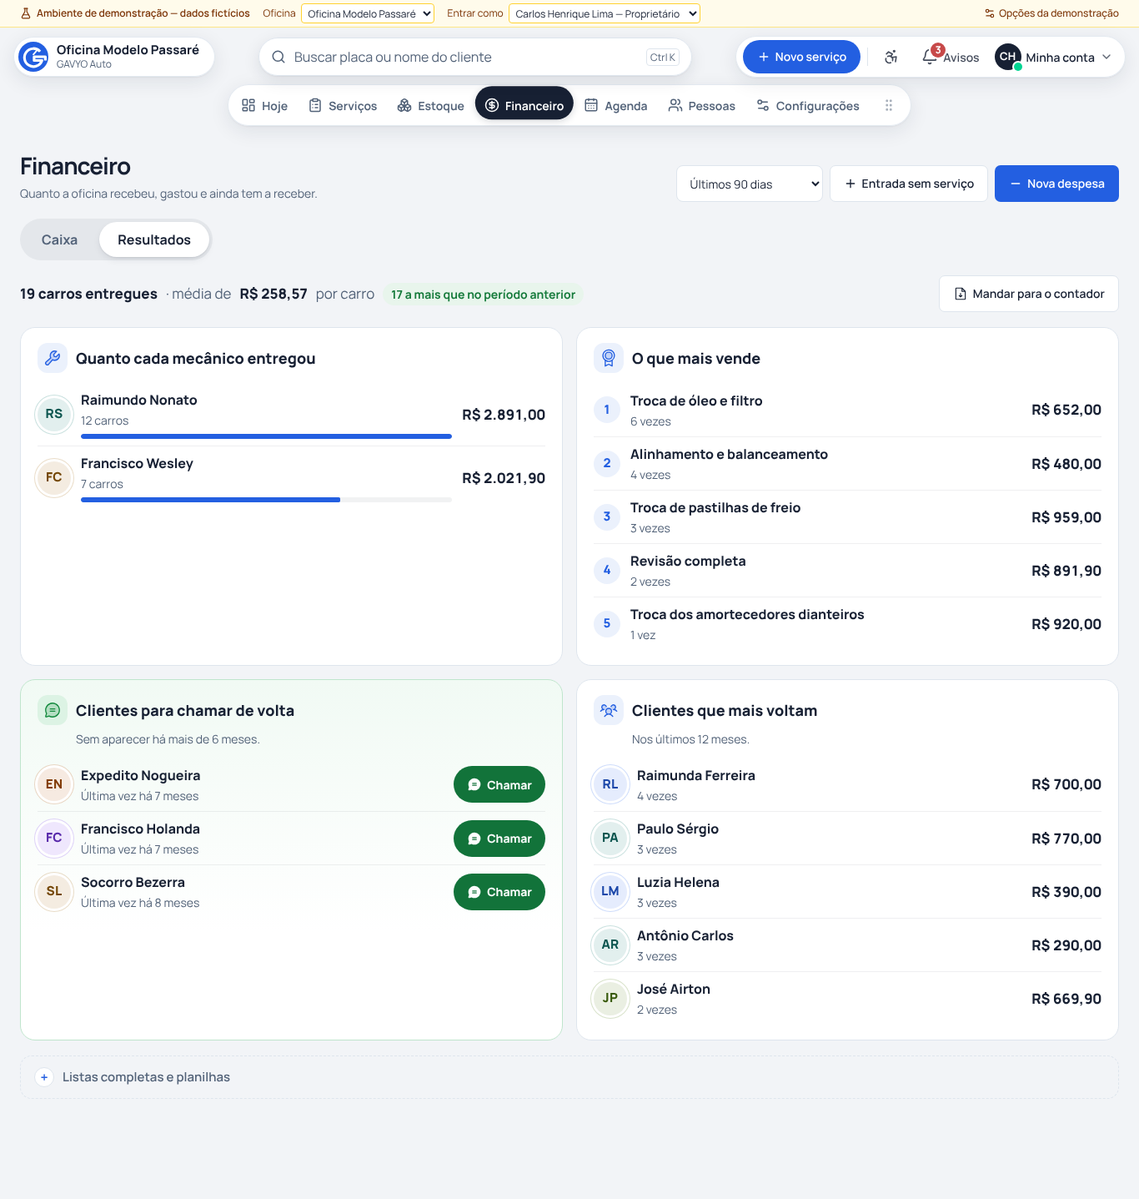
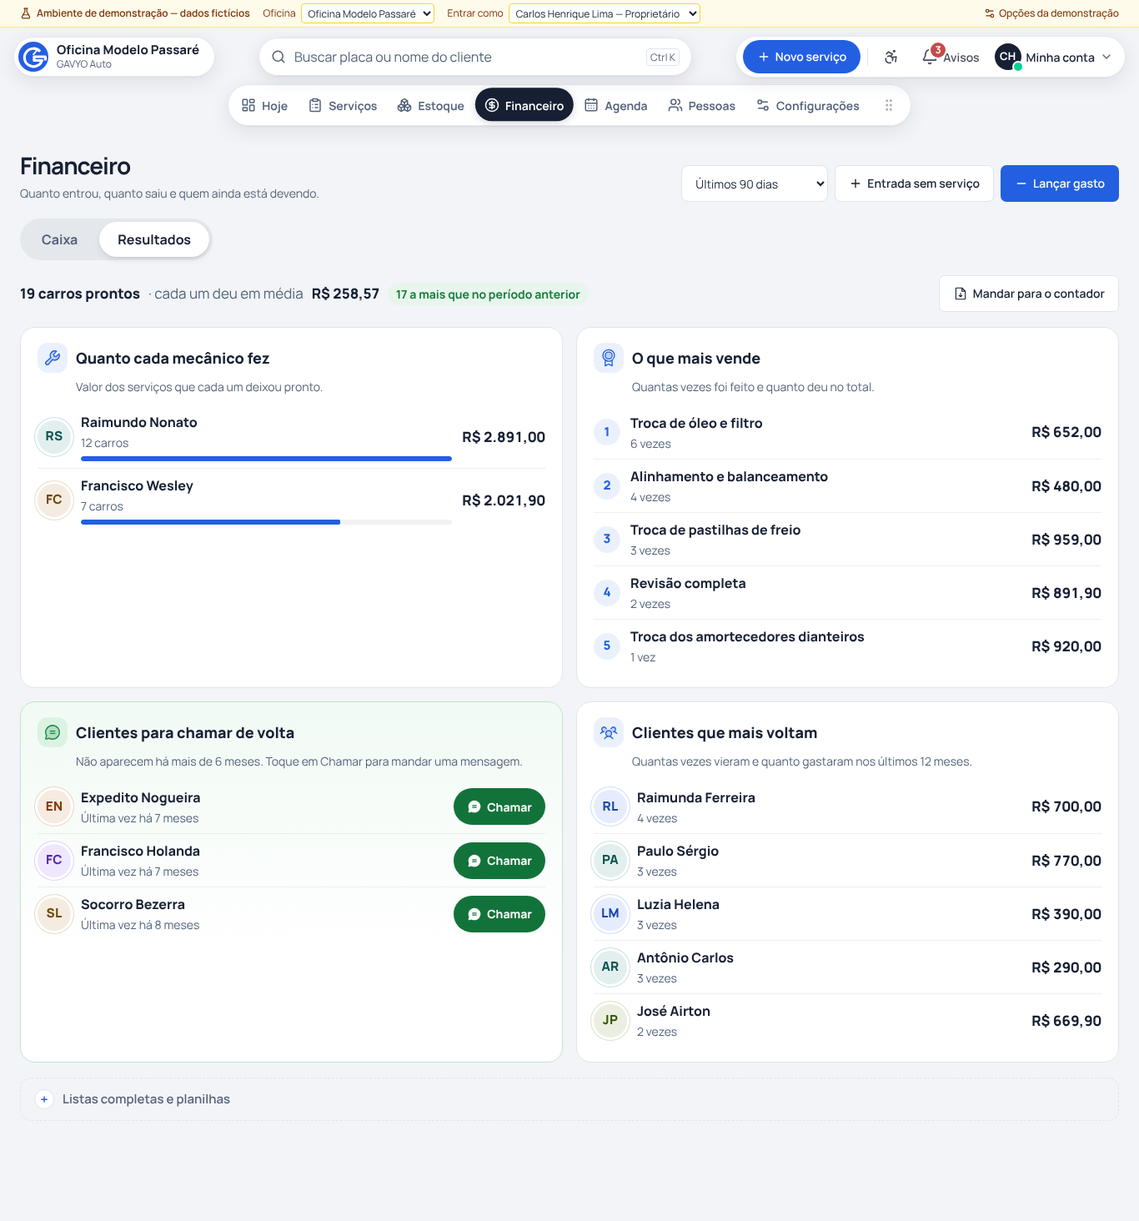
feat: Financeiro mais claro — Entrou, Saiu, Sobrou e Falta receber
Mesmo vocabulário e mesmas cores nos cartões, no gráfico e nas abas; sai
o número que brigava com o Entrou; gasto no lugar de despesa; tabela de
entradas com 5 colunas; Resultados explica cada valor (decisão 80).

Claude-Session: https://claude.ai/code/session_015xcccMtBZyPoUvGxoauYP3

diff --git a/src/features/finance/finance-page.tsx b/src/features/finance/finance-page.tsx
@@ -25,6 +25,11 @@ import { FinanceResults } from "./finance-results";
 /** Par de cores validado para daltonismo; independe da cor da oficina. */
 const SERIES = { received: "#2563EB", expenses: "#D97706" };
 
+/** Quadradinho da cor da série: liga o número do cartão à barra do gráfico. */
+function Swatch({ color }: { color: string }) {
+  return <span aria-hidden className="inline-block size-3 rounded-sm" style={{ background: color }} />;
+}
+
 function CashChart({ period, transactions }: { period: Period; transactions: FinancialTransaction[] }) {
   const reducedMotion = useReducedMotion();
   const { preferences } = useAccessibility();
@@ -48,12 +53,12 @@ function CashChart({ period, transactions }: { period: Period; transactions: Fin
   }, [period, transactions, grouping]);
 
   if (!data.some((d) => d.received || d.expenses)) {
-    return <EmptyState title="Nenhum dinheiro entrou ou saiu neste período" description="Quando você receber um serviço ou lançar uma despesa, o gráfico aparece aqui. Também dá para escolher outro período no alto da tela." />;
+    return <EmptyState title="Nenhum dinheiro entrou ou saiu neste período" description="Quando você receber um serviço ou lançar um gasto, ele aparece aqui. Para ver outros dias, troque o período no alto da tela." />;
   }
   const brl = (v: number) => formatBRL(Math.round(v * 100));
   return (
     <div>
-      <div className="flex flex-wrap items-center justify-between gap-3 px-5 pt-4"><p className="text-xs text-muted">{grouping === "week" ? "Totais por semana dentro do período selecionado" : "Movimentações por dia"}</p><Segmented label="Agrupar fluxo de caixa" value={grouping} onChange={setGrouping} options={[{ value: "day", label: "Por dia" }, { value: "week", label: "Por semana" }]} /></div>
+      <div className="flex flex-wrap items-center justify-between gap-3 px-5 pt-4"><span /><Segmented label="Mostrar entradas e saídas" value={grouping} onChange={setGrouping} options={[{ value: "day", label: "Por dia" }, { value: "week", label: "Por semana" }]} /></div>
       <div className="h-56 px-2 pt-3 pb-1">
       <ResponsiveContainer width="100%" height="100%">
         <BarChart data={data} barGap={2} barCategoryGap="25%">
@@ -67,15 +72,15 @@ function CashChart({ period, transactions }: { period: Period; transactions: Fin
             itemStyle={{ color: "#172033" }}
           />
           <Legend iconType="square" iconSize={10} wrapperStyle={{ fontSize: ".875rem" }} formatter={(v) => <span style={{ color: "#172033" }}>{v}</span>} />
-          <Bar dataKey="received" name="Receitas recebidas" fill={SERIES.received} radius={[4, 4, 0, 0]} maxBarSize={grouping === "week" ? 52 : 22} isAnimationActive={!reducedMotion} animationDuration={360} animationEasing="ease-out" />
-          <Bar dataKey="expenses" name="Despesas pagas" fill={SERIES.expenses} radius={[4, 4, 0, 0]} maxBarSize={grouping === "week" ? 52 : 22} isAnimationActive={!reducedMotion} animationDuration={360} animationEasing="ease-out" />
+          <Bar dataKey="received" name="Entrou" fill={SERIES.received} radius={[4, 4, 0, 0]} maxBarSize={grouping === "week" ? 52 : 22} isAnimationActive={!reducedMotion} animationDuration={360} animationEasing="ease-out" />
+          <Bar dataKey="expenses" name="Saiu" fill={SERIES.expenses} radius={[4, 4, 0, 0]} maxBarSize={grouping === "week" ? 52 : 22} isAnimationActive={!reducedMotion} animationDuration={360} animationEasing="ease-out" />
         </BarChart>
       </ResponsiveContainer>
       </div>
       <details className="border-t border-line p-4">
         <summary className="rounded py-2 text-sm font-semibold text-primary">Ver valores do gráfico em tabela</summary>
-        <table tabIndex={0} aria-label="Valores do fluxo de caixa" className="data-table mt-3">
-          <thead><tr><th scope="col">Período</th><th scope="col">Receitas recebidas</th><th scope="col">Despesas pagas</th></tr></thead>
+        <table tabIndex={0} aria-label="Valores de entradas e saídas" className="data-table mt-3">
+          <thead><tr><th scope="col">{grouping === "week" ? "Semana" : "Dia"}</th><th scope="col">Entrou</th><th scope="col">Saiu</th></tr></thead>
           <tbody>{data.map(bucket => <tr key={bucket.label}><th scope="row">{bucket.label}</th><td>{brl(bucket.received)}</td><td>{brl(bucket.expenses)}</td></tr>)}</tbody>
         </table>
       </details>
@@ -106,13 +111,13 @@ function TransactionDialog({ kind, onClose }: { kind: "income" | "expense"; onCl
 
   return (
     <Dialog
-      title={kind === "expense" ? "Nova despesa" : "Entrada sem serviço"}
+      title={kind === "expense" ? "Lançar gasto" : "Entrada sem serviço"}
       subtitle={kind === "income" ? "Para receber de um serviço, use o botão Receber no próprio serviço." : undefined}
       onClose={onClose}
       footer={
         <>
           <Button onClick={onClose}>Cancelar</Button>
-          <Button variant="primary" disabled={!online} onClick={save}>{kind === "expense" ? "Registrar despesa" : "Registrar entrada"}</Button>
+          <Button variant="primary" disabled={!online} onClick={save}>{kind === "expense" ? "Salvar gasto" : "Salvar entrada"}</Button>
         </>
       }
     >
@@ -204,12 +209,12 @@ export function FinancePage() {
     <div className="module-page module-finance">
       <PageHeader
         title="Financeiro"
-        description="Quanto a oficina recebeu, gastou e ainda tem a receber."
+        description="Quanto entrou, quanto saiu e quem ainda está devendo."
         actions={
           <>
             <PeriodPicker value={period} onChange={setPeriod} />
             {can("finance.payment") && <Button icon={<Plus className="size-4" aria-hidden />} disabled={!online} onClick={() => setDialog("income")}>Entrada sem serviço</Button>}
-            {can("finance.expense") && <Button variant="primary" icon={<Minus className="size-4" aria-hidden />} disabled={!online} onClick={() => setDialog("expense")}>Nova despesa</Button>}
+            {can("finance.expense") && <Button variant="primary" icon={<Minus className="size-4" aria-hidden />} disabled={!online} onClick={() => setDialog("expense")}>Lançar gasto</Button>}
           </>
         }
       />
@@ -222,25 +227,18 @@ export function FinancePage() {
       <div id="fin-area" role="tabpanel" aria-labelledby={area === "cash" ? "fin-tab-cash" : "fin-tab-results"}>
       {area === "results" ? <FinanceResults period={period} /> : <>
       <div className="mb-4 grid grid-cols-4 gap-3">
-        <Stat label="Receitas recebidas" value={summary.receivedCents} format={formatBRL} tone="success" hint="Entradas de caixa no período" />
-        <Stat label="Despesas pagas" value={summary.expensesCents} format={formatBRL} tone="danger" hint="Saídas de caixa no período" />
-        <Stat label="Contas a receber" value={summary.receivableCents} format={formatBRL} tone={receivables.length ? "warning" : "neutral"} hint={`${receivables.length} em aberto hoje`} />
-        <Stat label="Sobrou no caixa" value={summary.cashResultCents} format={formatBRL} tone={summary.cashResultCents < 0 ? "danger" : "neutral"} hint="Recebido − despesas pagas" />
+        {/* Mesmas palavras e cores do gráfico (decisão 80): azul = entrou, laranja = saiu. Vermelho só se sobrar negativo. */}
+        <Stat label="Entrou" icon={<Swatch color={SERIES.received} />} value={summary.receivedCents} format={formatBRL} hint="Dinheiro recebido no período" />
+        <Stat label="Saiu" icon={<Swatch color={SERIES.expenses} />} value={summary.expensesCents} format={formatBRL} hint="Gastos pagos no período" />
+        <Stat label="Sobrou" value={summary.cashResultCents} format={formatBRL} tone={summary.cashResultCents < 0 ? "danger" : "success"} hint={summary.cashResultCents < 0 ? "Saiu mais do que entrou" : "O que entrou menos o que saiu"} />
+        <Stat label="Falta receber" value={summary.receivableCents} format={formatBRL} tone={receivables.length ? "warning" : "neutral"} hint={receivables.length ? `${receivables.length} ${receivables.length === 1 ? "valor em aberto" : "valores em aberto"}, de qualquer data` : "Ninguém devendo"} />
       </div>
 
       <Card className="mb-4">
-        <CardHeader
-          title="Fluxo de caixa"
-          subtitle={`${formatDate(period.from)} a ${formatDate(period.to)}`}
-          actions={
-            <span className="text-xs text-muted">
-              Valor dos serviços prontos (pagos ou não): <strong className="text-ink">{formatBRL(summary.billedCents)}</strong>
-            </span>
-          }
-        />
+        <CardHeader title="Entradas e saídas" subtitle={`${formatDate(period.from)} a ${formatDate(period.to)}`} />
         <CashChart period={period} transactions={view.transactions} />
         <p className="border-t border-line px-4 py-2 text-xs text-muted">
-          “Sobrou no caixa” não é lucro contábil: considera apenas valores efetivamente recebidos e pagos no período. O custo das peças entra pelas despesas de compra, não é descontado novamente das receitas.
+          “Sobrou” é o que entrou menos o que saiu no período. Não é o lucro que o contador calcula.
         </p>
       </Card>
 
@@ -251,9 +249,9 @@ export function FinancePage() {
             value={tab}
             onChange={setTab}
             tabs={[
-              { value: "income", label: "Receitas", count: incomes.length },
-              { value: "expense", label: "Despesas", count: expenses.length },
-              { value: "receivable", label: "Contas a receber", count: receivables.length },
+              { value: "income", label: "Entrou", count: incomes.length },
+              { value: "expense", label: "Saiu", count: expenses.length },
+              { value: "receivable", label: "Falta receber", count: receivables.length },
             ]}
           />
         </div>
@@ -264,7 +262,7 @@ export function FinancePage() {
           ) : (
             <div className="overflow-x-auto">
               <table className="data-table">
-                <thead><tr><th>Data</th><th>Cliente</th><th>Serviço</th><th>Descrição</th><th>Forma</th><th>Situação</th><th className="num">Valor</th></tr></thead>
+                <thead><tr><th>Data</th><th>Cliente</th><th>De onde veio</th><th>Forma</th><th className="num">Valor</th></tr></thead>
                 <tbody>
                   {incomesPager.items.map((t) => {
                     const order = t.orderId ? view.orders.find((o) => o.id === t.orderId) : null;
@@ -272,10 +270,8 @@ export function FinancePage() {
                       <tr key={t.id}>
                         <td>{formatDate(t.date)}</td>
                         <td>{customerOf(t.customerId)?.name ?? "—"}</td>
-                        <td>{order ? <button type="button" className="font-semibold text-primary hover:underline" onClick={() => openOrder(order.id)}>{formatOrderNumber(order.number)}</button> : "—"}</td>
-                        <td>{t.description}</td>
-                        <td>{t.status === "paid" ? PAYMENT_METHOD_LABELS[t.method] : "—"}</td>
-                        <td>{t.status === "paid" ? <Badge tone="success">Recebida</Badge> : <Badge tone="warning">A receber</Badge>}</td>
+                        <td>{order ? <button type="button" className="font-semibold text-primary hover:underline" onClick={() => openOrder(order.id)}>{formatOrderNumber(order.number)}</button> : t.description}</td>
+                        <td>{t.status === "paid" ? PAYMENT_METHOD_LABELS[t.method] : <Badge tone="warning">A receber</Badge>}</td>
                         <td className="num font-medium">{formatBRL(t.amountCents)}</td>
                       </tr>
                     );
@@ -288,11 +284,11 @@ export function FinancePage() {
 
         {tab === "expense" &&
           (expenses.length === 0 ? (
-            <EmptyState icon={<Receipt className="size-8" aria-hidden />} title="Nenhuma despesa neste período" description="Lance aqui contas pagas: compra de peças, aluguel, energia…" action={can("finance.expense") ? <Button disabled={!online} onClick={() => setDialog("expense")}>Nova despesa</Button> : undefined} />
+            <EmptyState icon={<Receipt className="size-8" aria-hidden />} title="Nenhum gasto neste período" description="Lance aqui o que foi pago: compra de peças, aluguel, energia…" action={can("finance.expense") ? <Button disabled={!online} onClick={() => setDialog("expense")}>Lançar gasto</Button> : undefined} />
           ) : (
             <div className="overflow-x-auto">
               <table className="data-table">
-                <thead><tr><th>Data</th><th>Descrição</th><th>Categoria</th><th>Forma</th><th>Observações</th><th className="num">Valor</th></tr></thead>
+                <thead><tr><th>Data</th><th>Com o que gastou</th><th>Tipo</th><th>Forma</th><th>Observações</th><th className="num">Valor</th></tr></thead>
                 <tbody>
                   {expensesPager.items.map((t) => (
                     <tr key={t.id}>
@@ -316,7 +312,7 @@ export function FinancePage() {
           ) : (
             <div className="overflow-x-auto">
               <table className="data-table">
-                <thead><tr><th>Desde</th><th>Cliente</th><th>Veículo</th><th>Origem</th><th className="num">Valor pendente</th><th className="text-right">Ação</th></tr></thead>
+                <thead><tr><th>Desde</th><th>Cliente</th><th>Carro</th><th>De onde veio</th><th className="num">Falta receber</th><th className="text-right"><span className="sr-only">Ação</span></th></tr></thead>
                 <tbody>
                   {receivablesPager.items.map((r) => {
                     const v = r.order ? vehicleOf(r.order.vehicleId) : undefined;

diff --git a/src/features/finance/finance-results.tsx b/src/features/finance/finance-results.tsx
@@ -53,9 +53,9 @@ export function FinanceResults({ period }: { period: Period }) {
     <div className="fr">
       <div className="fr-top">
         <p className="fr-line">
-          {p.count === 0 ? "Nenhum carro entregue neste período." : (
+          {p.count === 0 ? "Nenhum carro ficou pronto neste período." : (
             <>
-              <strong>{p.count} {p.count === 1 ? "carro entregue" : "carros entregues"}</strong> · média de <strong>{formatBRL(p.avgCents)}</strong> por carro
+              <strong>{p.count} {p.count === 1 ? "carro pronto" : "carros prontos"}</strong> · cada um deu em média <strong>{formatBRL(p.avgCents)}</strong>
               {p.previous.count > 0 && diff !== 0 && <span className="fr-delta" data-tone={diff > 0 ? "up" : "down"}>{Math.abs(diff)} a {diff > 0 ? "mais" : "menos"} que no período anterior</span>}
             </>
           )}
@@ -66,7 +66,7 @@ export function FinanceResults({ period }: { period: Period }) {
       </div>
 
       <div className="fr-grid">
-        <Box icon={<Wrench size={22} weight="duotone" />} title="Quanto cada mecânico entregou" empty={!p.mechanics.length && "Ninguém entregou carro neste período."}>
+        <Box icon={<Wrench size={22} weight="duotone" />} title="Quanto cada mecânico fez" hint="Valor dos serviços que cada um deixou pronto." empty={!p.mechanics.length && "Nenhum carro ficou pronto neste período."}>
           {p.mechanics.map((m, i) => (
             <li key={m.userId ?? "none"} className="fr-row" style={{ "--i": i } as React.CSSProperties}>
               <PersonAvatar name={m.name} size={40} />
@@ -80,7 +80,7 @@ export function FinanceResults({ period }: { period: Period }) {
           ))}
         </Box>
 
-        <Box icon={<Medal size={22} weight="duotone" />} title="O que mais vende" empty={!p.services.length && "Nenhum serviço pronto neste período."}>
+        <Box icon={<Medal size={22} weight="duotone" />} title="O que mais vende" hint="Quantas vezes foi feito e quanto deu no total." empty={!p.services.length && "Nenhum serviço pronto neste período."}>
           {p.services.map((s, i) => (
             <li key={s.label} className="fr-row" style={{ "--i": i } as React.CSSProperties}>
               <span className="fr-rank" aria-hidden>{i + 1}</span>
@@ -93,7 +93,7 @@ export function FinanceResults({ period }: { period: Period }) {
           ))}
         </Box>
 
-        <Box icon={<ChatCircleText size={22} weight="duotone" />} title="Clientes para chamar de volta" hint="Sem aparecer há mais de 6 meses." tone="call" empty={!p.gone.length && "Nenhum cliente sumido. Ótimo sinal."}>
+        <Box icon={<ChatCircleText size={22} weight="duotone" />} title="Clientes para chamar de volta" hint="Não aparecem há mais de 6 meses. Toque em Chamar para mandar uma mensagem." tone="call" empty={!p.gone.length && "Nenhum cliente sumido. Ótimo sinal."}>
           {p.gone.map((c, i) => {
             const url = callBack(c.name, c.phone);
             return (
@@ -109,7 +109,7 @@ export function FinanceResults({ period }: { period: Period }) {
           })}
         </Box>
 
-        <Box icon={<UsersThree size={22} weight="duotone" />} title="Clientes que mais voltam" hint="Nos últimos 12 meses." empty={!p.loyal.length && "Ninguém voltou mais de uma vez ainda."}>
+        <Box icon={<UsersThree size={22} weight="duotone" />} title="Clientes que mais voltam" hint="Quantas vezes vieram e quanto gastaram nos últimos 12 meses." empty={!p.loyal.length && "Ninguém voltou mais de uma vez ainda."}>
           {p.loyal.map((c, i) => (
             <li key={c.customerId} className="fr-row" style={{ "--i": i } as React.CSSProperties}>
               <PersonAvatar name={c.name} size={40} />

diff --git a/src/domain/permissions.ts b/src/domain/permissions.ts
@@ -23,9 +23,9 @@ export const PERMISSIONS: PermissionInfo[] = [
   { key: "os.cancel", label: "Cancelar serviço", group: "Serviços" },
   { key: "stock.view", label: "Consultar estoque", group: "Estoque" },
   { key: "stock.move", label: "Cadastrar peças e movimentar estoque", group: "Estoque" },
-  { key: "finance.view", label: "Consultar financeiro", group: "Financeiro" },
-  { key: "finance.payment", label: "Registrar pagamentos e receitas", group: "Financeiro" },
-  { key: "finance.expense", label: "Registrar despesas", group: "Financeiro" },
+  { key: "finance.view", label: "Ver o financeiro", group: "Financeiro" },
+  { key: "finance.payment", label: "Receber pagamentos e lançar entradas", group: "Financeiro" },
+  { key: "finance.expense", label: "Lançar gastos", group: "Financeiro" },
   { key: "schedule.manage", label: "Gerenciar agenda", group: "Agenda e clientes" },
   { key: "customers.view", label: "Consultar clientes e veículos", group: "Agenda e clientes" },
   { key: "reports.view", label: "Ver resultados (mecânicos, clientes, listas)", group: "Financeiro" },

diff --git a/docs/DECISOES.md b/docs/DECISOES.md
@@ -82,3 +82,4 @@
 | 77 | **Relatórios vira "Desempenho"** (usuário, 19/11: "muito básico e com muita informação"; "mas isso tem no financeiro"; escolheu a opção B) | A tela não repete o Financeiro (entrou, saiu, sobrou e contas a receber continuam lá). Mostra **só o que nenhuma outra tela mostra**, em cartões que respondem perguntas: **Quem fez** (serviços, valor e mão de obra por mecânico, com barra), **O que a oficina mais faz** (top 5; descrições parecidas como "Troca de óleo" e "Troca de óleo e filtro" viram um grupo pelas 2 primeiras palavras que importam), **Clientes que mais voltam** (12 meses) e **Clientes sumidos** (sem serviço há mais de 6 meses, com botão **Chamar** no WhatsApp e mensagem pronta). No topo, períodos em botões (Este mês, Mês passado, Últimos 3 meses) e três números com comparação ao período anterior (porcentagem quando faz sentido; com pouca base, a diferença em número). **"Mandar para o contador"** baixa um Excel com uma aba por lista. As tabelas antigas ficam recolhidas em "Listas completas e planilhas". Menu: "Desempenho" ("Números" na barra do celular). Corrigido: "Mês passado" começava no mesmo dia do mês anterior, e não no dia 1º. Demonstração ganhou meses de histórico (clientes que voltam e sumidos). Animações: números contam ao abrir, barras crescem uma vez, linhas entram em cascata curta. |
 | 78 | **Desempenho mais limpo e com identidade** (usuário, 19/11: "tá básico e meio poluído, veja como um usuário"; crítica com as regras da Impeccable — o detector automático dela foi bloqueado pela segurança da sessão — e da UI UX Pro Max) | Problemas vistos como usuário: 7 caixas iguais sem ponto de partida, 3 números por linha, cara de painel genérico, a única ação (chamar cliente) escondida, caixa com buraco, botão do contador em destaque sem motivo. **Mudou:** os 3 cartões de número viraram **uma frase em letra grande** ("Em novembro a oficina entregou **6 carros** e os serviços somaram **R$ 2.952,90**", números contando) com a média e a comparação embaixo; **Quem entregou** virou placar (nome, barra, "12 carros" grande); **O que mais sai** só com o nome e "6×" (a média fica no texto de ajuda); **Chamar de volta** ganhou faixa verde de destaque com cartões e botão do WhatsApp cheio; clientes fiéis viraram uma linha de etiquetas; seções separadas por espaço e título (sem caixas); período em controle segmentado ao lado do título ("3 meses"); "Mandar para o contador" virou botão discreto. Na barra do celular o item aparece como "Números" (o nome inteiro segue para leitor de tela). |
 | 79 | **Desempenho sai do menu e vira a aba "Resultados" do Financeiro** (usuário, 19/11: "para leigos não acho ideal esse layout… tirar e colocar no financeiro com quadros dedicados"; escolheu "tudo no Financeiro" e "numa aba Resultados") | Substitui as decisões 77–78 na forma (as regras de `services/performance.ts` continuam). O dono procura dinheiro no Financeiro; uma tela só de análise era mais um lugar para se perder. **Financeiro** ganha duas abas no topo: **Caixa** (tudo o que já existia) e **Resultados**, com o **mesmo período** do alto da página. Resultados: uma linha de resumo ("19 carros entregues · média de R$ 258,57 por carro", comparação com o período anterior), botão **Mandar para o contador** e **quatro quadros simples** no mesmo estilo do Financeiro — Quanto cada mecânico entregou, O que mais vende, Clientes para chamar de volta (com **Chamar** no WhatsApp, verde escurecido para contraste) e Clientes que mais voltam —, um número por linha. As listas completas ficam recolhidas no fim e usam o período da página (um seletor só). O endereço /relatorios leva ao Financeiro; o módulo continua aceito nos dados salvos, mas some do menu, das Configurações, da busca e do atalho R. |
+| 80 | **Financeiro mais claro** (usuário, 19/11: "use a Impeccable e a UI UX Pro Max para ver o que dá para melhorar na clareza"; regras de clareza da Impeccable — um fato por vez, mesmo termo para a mesma coisa, dizer uma vez — e de linguagem simples da UI UX Pro Max) | Aplica o glossário da auditoria leiga que faltava no Financeiro: **Entrou / Saiu / Sobrou / Falta receber**, "**Entradas e saídas**" no lugar de "Fluxo de caixa", "**gasto**" no lugar de "despesa" ("Lançar gasto", "Salvar gasto"); abas de baixo com as mesmas palavras. **Tirado:** "Valor dos serviços prontos (pagos ou não)" ao lado do gráfico (brigava com o "Entrou"; o valor está em Resultados), a legenda repetida "Totais por semana…" e as fórmulas como texto de ajuda. Nota do "Sobrou" em uma frase. **Cor:** cartões Entrou/Saiu com o quadradinho da mesma cor do gráfico (azul/laranja, par seguro para daltonismo); "Saiu" deixou de ser vermelho (gastar é normal); vermelho só quando sobra negativo. **Tabela de entradas:** 5 colunas (Data, Cliente, De onde veio, Forma, Valor); some a descrição que repetia o serviço e a coluna "Recebida" igual em todas; "A receber" aparece só quando falta. **Resultados:** cada quadro diz o que o valor significa; "prontos" no lugar de "entregues" (igual à etapa). Permissões renomeadas no mesmo vocabulário. |

diff --git a/docs/INTERFACE.md b/docs/INTERFACE.md
@@ -199,3 +199,7 @@ Barra amarela: trocar **Oficina** (a cor nova varre a tela a partir da logo — 
 O Financeiro tem as abas **Caixa** e **Resultados**. Em Resultados: resumo de carros entregues e média por carro, "Mandar para o contador" e quatro quadros (mecânicos, o que mais vende, clientes para chamar de volta com WhatsApp, clientes que mais voltam). As listas completas ficam recolhidas no fim. A antiga tela Desempenho/Relatórios saiu do menu.
 
 ![Financeiro › Resultados](imagens/interface/financeiro-resultados.png)
+
+**Caixa (decisão 80):** Entrou, Saiu, Sobrou e Falta receber; "Entradas e saídas" no gráfico com as mesmas cores dos cartões; abas Entrou · Saiu · Falta receber; "Lançar gasto".
+
+![Financeiro › Caixa](imagens/interface/financeiro-caixa.png)
